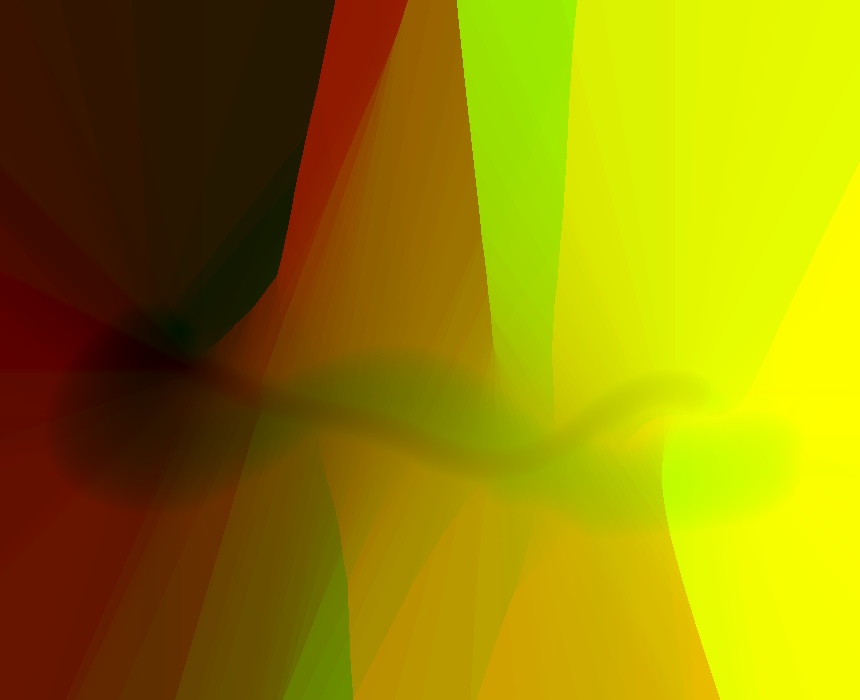
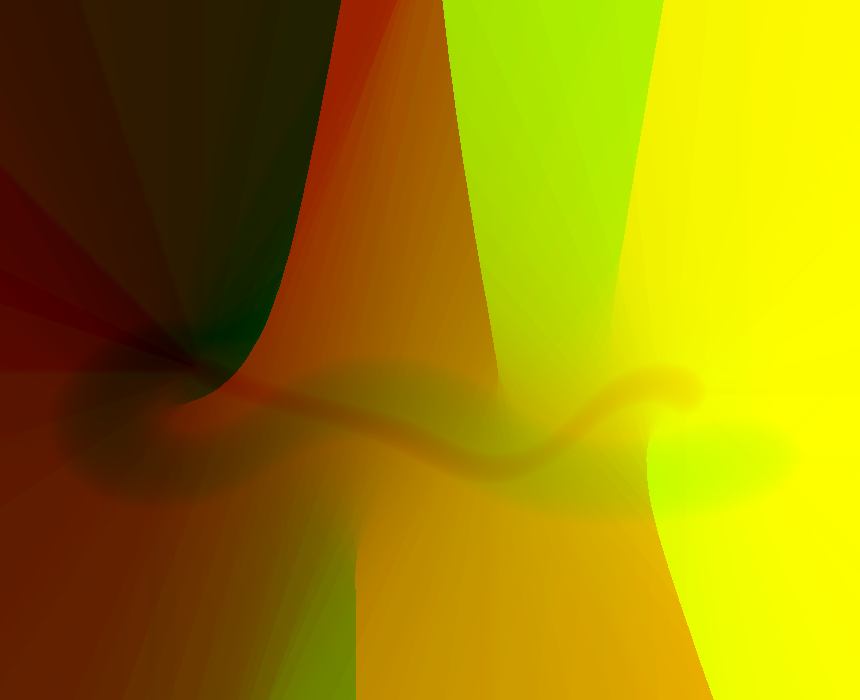
Hero rebuilt from Yummi's layered PNG: stage, laptop and two snakes as separate layers; each snake animates on its own; WebGL on all screen sizes
Claude-Session: https://claude.ai/code/session_01NTP9niN9fkNMbJSChYRcYE

diff --git a/assets/js/main.js b/assets/js/main.js
@@ -145,7 +145,7 @@
   /* ------- hero: empty laptop first, then the snakes crawl in from the left (WebGL layers) ------- */
   function makeHero() {
     const img = $(".hero__art img");
-    if (!img || reduce || !matchMedia("(min-width:1024px)").matches) return null;
+    if (!img || reduce) return null;
     const holder = img.closest("picture").parentElement;
     const cv = document.createElement("canvas");
     cv.className = "snake"; cv.width = 1720; cv.height = 1400; cv.setAttribute("aria-hidden", "true");
@@ -155,34 +155,34 @@
     const pr = gl.createProgram();
     gl.attachShader(pr, sh(gl.VERTEX_SHADER, "attribute vec2 a;varying vec2 v;void main(){v=a*.5+.5;gl_Position=vec4(a,0.,1.);}"));
     gl.attachShader(pr, sh(gl.FRAGMENT_SHADER, `precision mediump float;varying vec2 v;
-uniform sampler2D pon,snk,orig,tm,al;uniform float p,f;
+uniform sampler2D pon,pu,re,tm;uniform float p,f;
 void main(){
-  vec3 T=texture2D(tm,v).rgb, A=texture2D(al,v).rgb;
+  vec3 T=texture2D(tm,v).rgb;
   float P=clamp((p-.03)/.97,0.,1.);
-  float d1=P-T.r;
-  float w1=clamp(d1/.03,0.,1.)*A.r;
-  float q=clamp((P-.36)/.64,0.,1.);
-  float d2=q*1.04-T.g;
-  float w2=clamp(d2/.03,0.,1.)*A.g;
-  vec3 o=texture2D(orig,v).rgb;
+  vec4 a=texture2D(pu,v);
+  float w1=clamp((P-T.r)/.02,0.,1.)*a.a;
+  float q=clamp((P-.3)/.7,0.,1.);
+  vec4 b=texture2D(re,v);
+  float w2=clamp((q*1.04-T.g)/.02,0.,1.)*b.a;
   vec3 c=texture2D(pon,v).rgb;
-  c=mix(c,texture2D(snk,v).rgb,w1);
-  c=mix(c,o,w2);
+  c=mix(c,a.rgb,w1);
+  c=mix(c,b.rgb,w2);
   gl_FragColor=vec4(c,1.);}`));
     gl.linkProgram(pr); gl.useProgram(pr);
     const b = gl.createBuffer(); gl.bindBuffer(gl.ARRAY_BUFFER, b);
     gl.bufferData(gl.ARRAY_BUFFER, new Float32Array([-1, -1, 1, -1, -1, 1, 1, 1]), gl.STATIC_DRAW);
     const loc = gl.getAttribLocation(pr, "a"); gl.enableVertexAttribArray(loc); gl.vertexAttribPointer(loc, 2, gl.FLOAT, false, 0, 0);
-    gl.pixelStorei(gl.UNPACK_FLIP_Y_WEBGL, true);
+    gl.pixelStorei(gl.UNPACK_FLIP_Y_WEBGL, true); gl.pixelStorei(gl.UNPACK_PREMULTIPLY_ALPHA_WEBGL, false);
     const P = gl.getUniformLocation(pr, "p"), F = gl.getUniformLocation(pr, "f");
     const base = "assets/img/hero/";
     const h = { p: 0, f: 0, started: false };
     const draw = () => { gl.uniform1f(P, h.p); gl.uniform1f(F, h.f); gl.drawArrays(gl.TRIANGLE_STRIP, 0, 4); };
-    h.ready = Promise.all([base + "plate-on.webp", base + "snakes.webp", img.currentSrc || img.src, base + "times.png", base + "alpha.png"].map(loadImg)).then(ims => {
-      ["pon", "snk", "orig", "tm", "al"].forEach((n, i) => {
+    h.ready = Promise.all([base + "plate-on.webp", base + "pur.webp", base + "red.webp", base + "times.png"].map(loadImg)).then(ims => {
+      ["pon", "pu", "re", "tm"].forEach((n, i) => {
         gl.activeTexture(gl.TEXTURE0 + i);
         const t = gl.createTexture(); gl.bindTexture(gl.TEXTURE_2D, t);
-        gl.texImage2D(gl.TEXTURE_2D, 0, gl.RGB, gl.RGB, gl.UNSIGNED_BYTE, ims[i]);
+        const fm = i === 1 || i === 2 ? gl.RGBA : gl.RGB;
+        gl.texImage2D(gl.TEXTURE_2D, 0, fm, fm, gl.UNSIGNED_BYTE, ims[i]);
         [gl.TEXTURE_MIN_FILTER, gl.TEXTURE_MAG_FILTER].forEach(k => gl.texParameteri(gl.TEXTURE_2D, k, gl.LINEAR));
         [gl.TEXTURE_WRAP_S, gl.TEXTURE_WRAP_T].forEach(k => gl.texParameteri(gl.TEXTURE_2D, k, gl.CLAMP_TO_EDGE));
         gl.uniform1i(gl.getUniformLocation(pr, n), i);
